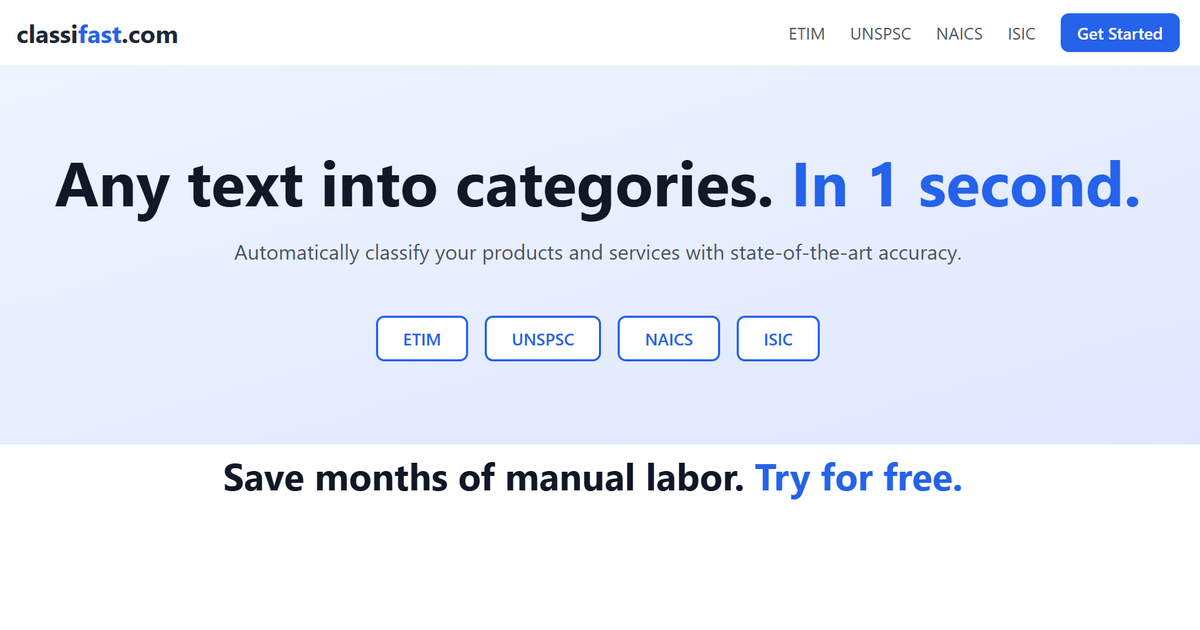
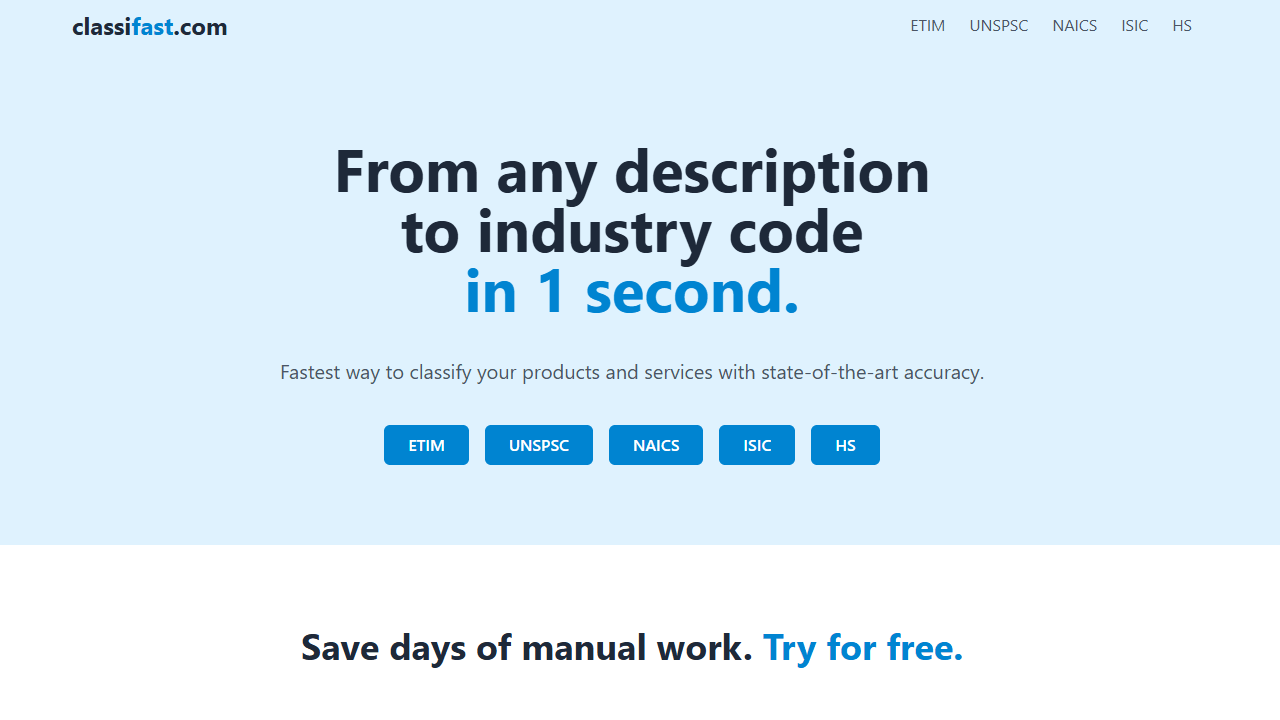
Add links to API, update preview images

diff --git a/app/static/css/styles.css b/app/static/css/styles.css
@@ -1,4 +1,4 @@
-/*! tailwindcss v4.1.11 | MIT License | https://tailwindcss.com */
+/*! tailwindcss v4.1.12 | MIT License | https://tailwindcss.com */
 @layer properties;
 @layer theme, base, components, utilities;
 @layer theme {
@@ -202,6 +202,9 @@
   ::-webkit-datetime-edit, ::-webkit-datetime-edit-year-field, ::-webkit-datetime-edit-month-field, ::-webkit-datetime-edit-day-field, ::-webkit-datetime-edit-hour-field, ::-webkit-datetime-edit-minute-field, ::-webkit-datetime-edit-second-field, ::-webkit-datetime-edit-millisecond-field, ::-webkit-datetime-edit-meridiem-field {
     padding-block: 0;
   }
+  ::-webkit-calendar-picker-indicator {
+    line-height: 1;
+  }
   :-moz-ui-invalid {
     box-shadow: none;
   }
@@ -252,14 +255,23 @@
   .mx-auto {
     margin-inline: auto;
   }
+  .mt-1 {
+    margin-top: calc(var(--spacing) * 1);
+  }
   .mt-2 {
     margin-top: calc(var(--spacing) * 2);
   }
   .mt-4 {
     margin-top: calc(var(--spacing) * 4);
   }
+  .mt-6 {
+    margin-top: calc(var(--spacing) * 6);
+  }
   .mt-8 {
     margin-top: calc(var(--spacing) * 8);
+  }
+  .mt-12 {
+    margin-top: calc(var(--spacing) * 12);
   }
   .mr-6 {
     margin-right: calc(var(--spacing) * 6);
@@ -415,6 +427,9 @@
   .gap-4 {
     gap: calc(var(--spacing) * 4);
   }
+  .gap-6 {
+    gap: calc(var(--spacing) * 6);
+  }
   .gap-8 {
     gap: calc(var(--spacing) * 8);
   }
@@ -439,11 +454,25 @@
       margin-block-end: calc(calc(var(--spacing) * 3) * calc(1 - var(--tw-space-y-reverse)));
     }
   }
+  .space-y-4 {
+    :where(& > :not(:last-child)) {
+      --tw-space-y-reverse: 0;
+      margin-block-start: calc(calc(var(--spacing) * 4) * var(--tw-space-y-reverse));
+      margin-block-end: calc(calc(var(--spacing) * 4) * calc(1 - var(--tw-space-y-reverse)));
+    }
+  }
   .space-y-8 {
     :where(& > :not(:last-child)) {
       --tw-space-y-reverse: 0;
       margin-block-start: calc(calc(var(--spacing) * 8) * var(--tw-space-y-reverse));
       margin-block-end: calc(calc(var(--spacing) * 8) * calc(1 - var(--tw-space-y-reverse)));
+    }
+  }
+  .space-x-2 {
+    :where(& > :not(:last-child)) {
+      --tw-space-x-reverse: 0;
+      margin-inline-start: calc(calc(var(--spacing) * 2) * var(--tw-space-x-reverse));
+      margin-inline-end: calc(calc(var(--spacing) * 2) * calc(1 - var(--tw-space-x-reverse)));
     }
   }
   .space-x-4 {
@@ -459,6 +488,9 @@
       margin-inline-start: calc(calc(var(--spacing) * 6) * var(--tw-space-x-reverse));
       margin-inline-end: calc(calc(var(--spacing) * 6) * calc(1 - var(--tw-space-x-reverse)));
     }
+  }
+  .rounded {
+    border-radius: 0.25rem;
   }
   .rounded-full {
     border-radius: calc(infinity * 1px);
@@ -481,14 +513,35 @@
     border-top-style: var(--tw-border-style);
     border-top-width: 1px;
   }
+  .border-t-2 {
+    border-top-style: var(--tw-border-style);
+    border-top-width: 2px;
+  }
+  .border-b-2 {
+    border-bottom-style: var(--tw-border-style);
+    border-bottom-width: 2px;
+  }
+  .border-l-4 {
+    border-left-style: var(--tw-border-style);
+    border-left-width: 4px;
+  }
+  .border-amber-200 {
+    border-color: var(--color-amber-200);
+  }
   .border-gray-200 {
     border-color: var(--color-gray-200);
   }
   .border-gray-400 {
     border-color: var(--color-gray-400);
   }
+  .border-gray-700 {
+    border-color: var(--color-gray-700);
+  }
   .border-gray-800 {
     border-color: var(--color-gray-800);
+  }
+  .border-sky-500 {
+    border-color: var(--color-sky-500);
   }
   .border-sky-600 {
     border-color: var(--color-sky-600);
@@ -499,8 +552,14 @@
   .border-b-transparent {
     border-bottom-color: transparent;
   }
+  .bg-amber-50 {
+    background-color: var(--color-amber-50);
+  }
   .bg-gray-50 {
     background-color: var(--color-gray-50);
+  }
+  .bg-gray-100 {
+    background-color: var(--color-gray-100);
   }
   .bg-gray-200 {
     background-color: var(--color-gray-200);
@@ -541,6 +600,9 @@
   .p-3 {
     padding: calc(var(--spacing) * 3);
   }
+  .p-4 {
+    padding: calc(var(--spacing) * 4);
+  }
   .p-6 {
     padding: calc(var(--spacing) * 6);
   }
@@ -573,6 +635,9 @@
   }
   .pt-8 {
     padding-top: calc(var(--spacing) * 8);
+  }
+  .pl-3 {
+    padding-left: calc(var(--spacing) * 3);
   }
   .text-center {
     text-align: center;
@@ -610,6 +675,10 @@
     font-size: var(--text-lg);
     line-height: var(--tw-leading, var(--text-lg--line-height));
   }
+  .text-sm {
+    font-size: var(--text-sm);
+    line-height: var(--tw-leading, var(--text-sm--line-height));
+  }
   .text-xl {
     font-size: var(--text-xl);
     line-height: var(--tw-leading, var(--text-xl--line-height));
@@ -617,6 +686,10 @@
   .font-bold {
     --tw-font-weight: var(--font-weight-bold);
     font-weight: var(--font-weight-bold);
+  }
+  .font-medium {
+    --tw-font-weight: var(--font-weight-medium);
+    font-weight: var(--font-weight-medium);
   }
   .font-semibold {
     --tw-font-weight: var(--font-weight-semibold);
@@ -658,8 +731,14 @@
   .text-\[\#a9a9a9\] {
     color: #a9a9a9;
   }
+  .text-amber-800 {
+    color: var(--color-amber-800);
+  }
   .text-gray-400 {
     color: var(--color-gray-400);
+  }
+  .text-gray-500 {
+    color: var(--color-gray-500);
   }
   .text-gray-600 {
     color: var(--color-gray-600);
@@ -684,6 +763,9 @@
   }
   .text-sky-600 {
     color: var(--color-sky-600);
+  }
+  .text-sky-800 {
+    color: var(--color-sky-800);
   }
   .text-white {
     color: var(--color-white);

diff --git a/app/templates/classifier_page.html b/app/templates/classifier_page.html
@@ -67,7 +67,7 @@
     {% endif %}
     <meta property="og:url" content="https://classifast.com/{{ classifier_type }}">
     <meta property="og:site_name" content="classifast.com">
-    <meta property="og:image" content="{{ url_for('static', path='images/preview.png') }}">
+    <meta property="og:image" content="{{ url_for('static', path='images/preview_classifybox.png') }}">
     <meta property="og:image:width" content="1200">
     <meta property="og:image:height" content="630">
     <meta property="og:image:alt" content="{{ classifier_type.upper() }} Automatic Classification">
@@ -86,7 +86,7 @@
     <meta name="twitter:description"
         content="Find {{ classifier_type.upper() }} codes quickly. Precise and fast {{ classifier_type.upper() }} standard classification with semantic search.">
     {% endif %}
-    <meta name="twitter:image" content="{{ url_for('static', path='images/preview.png') }}">
+    <meta name="twitter:image" content="{{ url_for('static', path='images/preview_classifybox.png') }}">
     <meta name="twitter:creator" content="@DimonBitcoin">
 
     <!-- Google tag (gtag.js) -->
@@ -490,8 +490,6 @@
             <!-- Desktop Navigation -->
             <nav class="desktop-nav">
                 <ul class="flex space-x-6 items-center">
-                    <li><a href="{{ url_for('read_root') }}"
-                            class="text-gray-600 hover:text-sky-600 transition-colors">Home</a></li>
                     <li><a href="{{ url_for('show_classifier_page', classifier_type='etim') }}"
                             class="text-gray-600 hover:text-sky-600 transition-colors">ETIM</a></li>
                     <li><a href="{{ url_for('show_classifier_page', classifier_type='unspsc') }}"
@@ -502,6 +500,8 @@
                             class="text-gray-600 hover:text-sky-600 transition-colors">ISIC</a></li>
                     <li><a href="{{ url_for('show_classifier_page', classifier_type='hs') }}"
                             class="text-gray-600 hover:text-sky-600 transition-colors">HS</a></li>
+                    <li><a href="https://rapidapi.com/DmitryMatv/api/classifast" target="_blank" rel="noopener"
+                            class="text-gray-600 hover:text-sky-600 transition-colors font-bold">API</a></li>
                     <!-- <li><a href="#" class="text-gray-600 hover:text-sky-600 transition-colors">Login</a></li> -->
                     <!-- <li><a href="#"
                             class="bg-sky-600 text-white px-4 py-2 font-semibold rounded-md hover:bg-sky-700 transition-colors whitespace-nowrap">
@@ -520,9 +520,6 @@
         <!-- Mobile Navigation Menu -->
         <nav class="mobile-menu" id="mobile-menu">
             <ul class="flex flex-col">
-                <li><a href="{{ url_for('read_root') }}"
-                        class="text-gray-600 hover:text-sky-600 transition-colors">Home</a>
-                </li>
                 <li><a href="{{ url_for('show_classifier_page', classifier_type='etim') }}"
                         class="text-gray-600 hover:text-sky-600 transition-colors">ETIM</a>
                 </li>
@@ -537,6 +534,9 @@
                 </li>
                 <li><a href="{{ url_for('show_classifier_page', classifier_type='hs') }}"
                         class="text-gray-600 hover:text-sky-600 transition-colors">HS</a>
+                </li>
+                <li><a href="https://rapidapi.com/DmitryMatv/api/classifast" target="_blank" rel="noopener"
+                        class="text-gray-600 hover:text-sky-600 transition-colors font-bold">API</a>
                 </li>
                 <!-- <li><a href="#" class="text-gray-600 hover:text-sky-600 transition-colors">Login</a>
                 </li>
@@ -933,13 +933,13 @@
                     <ul class="space-y-2">
                         <li><a href="{{ url_for('read_root') }}"
                                 class="text-gray-400 hover:text-white transition-colors">Home</a></li>
+                        <li><a href="https://rapidapi.com/DmitryMatv/api/classifast" target="_blank" rel="noopener"
+                                class="text-gray-400 hover:text-white transition-colors">API on RapidAPI</a></li>
+                        <li><a href="https://github.com/DmitryMatv/classifast" target="_blank" rel="noopener"
+                                class="text-gray-400 hover:text-white transition-colors">Code on GitHub</a></li>
                         <li><a href="https://converter.classifast.com" target="_blank" rel="noopener"
                                 class="text-gray-400 hover:text-white transition-colors">
                                 BMEcat to ETIM xChange Converter</a></li>
-                        <li><a href="https://github.com/DmitryMatv/classifast" target="_blank" rel="noopener"
-                                class="text-gray-400 hover:text-white transition-colors">GitHub</a></li>
-                        <li><a href="https://github.com/DmitryMatv" target="_blank" rel="noopener"
-                                class="text-gray-400 hover:text-white transition-colors">About</a></li>
                     </ul>
                 </div>
             </div>

diff --git a/app/templates/index.html b/app/templates/index.html
@@ -290,6 +290,8 @@
                             class="text-gray-600 hover:text-sky-600 transition-colors">ISIC</a></li>
                     <li><a href="{{ url_for('show_classifier_page', classifier_type='hs') }}"
                             class="text-gray-600 hover:text-sky-600 transition-colors">HS</a></li>
+                    <li><a href="https://rapidapi.com/DmitryMatv/api/classifast" target="_blank" rel="noopener"
+                            class="text-gray-600 hover:text-sky-600 transition-colors font-bold">API</a></li>
                     <!-- <li><a href="#" class="text-gray-600 hover:text-sky-600 transition-colors">Login</a></li> -->
                     <!-- <li><a href="#"
                             class="bg-sky-600 text-white px-4 py-2 font-semibold rounded-md hover:bg-sky-700 transition-colors whitespace-nowrap">
@@ -323,6 +325,9 @@
                 <li><a href="{{ url_for('show_classifier_page', classifier_type='hs') }}"
                         class="text-gray-600 hover:text-sky-600 transition-colors">HS</a>
                 </li>
+                <li><a href="https://rapidapi.com/DmitryMatv/api/classifast" target="_blank" rel="noopener"
+                        class="text-gray-600 hover:text-sky-600 transition-colors font-bold">API</a>
+                </li>
                 <!-- <li><a href="#" class="text-gray-600 hover:text-sky-600 transition-colors">Login</a>
                 </li>
                 <li><a href="#"
@@ -345,7 +350,7 @@
                     <h1 class="text-5xl md:text-6xl font-bold text-gray-800">
                         From any description<br>to industry code
                     </h1>
-                    <p class="text-5xl md:text-6xl font-bold text-sky-600 mb-10">in 1 second.</p>
+                    <p class="text-5xl md:text-6xl font-bold text-sky-600 mb-10">in 1 second</p>
                     <p class="text-xl text-gray-600 mb-10 max-w-3xl mx-auto">
                         Fastest way to classify your products and services with state-of-the-art accuracy.
                     </p>
@@ -518,13 +523,13 @@
                     <ul class="space-y-2">
                         <li><a href="{{ url_for('read_root') }}"
                                 class="text-gray-400 hover:text-white transition-colors">Home</a></li>
+                        <li><a href="https://rapidapi.com/DmitryMatv/api/classifast" target="_blank" rel="noopener"
+                                class="text-gray-400 hover:text-white transition-colors">API on RapidAPI</a></li>
+                        <li><a href="https://github.com/DmitryMatv/classifast" target="_blank" rel="noopener"
+                                class="text-gray-400 hover:text-white transition-colors">Code on GitHub</a></li>
                         <li><a href="https://converter.classifast.com" target="_blank" rel="noopener"
                                 class="text-gray-400 hover:text-white transition-colors">
                                 BMEcat to ETIM xChange Converter</a></li>
-                        <li><a href="https://github.com/DmitryMatv/classifast" target="_blank" rel="noopener"
-                                class="text-gray-400 hover:text-white transition-colors">GitHub</a></li>
-                        <li><a href="https://github.com/DmitryMatv" target="_blank" rel="noopener"
-                                class="text-gray-400 hover:text-white transition-colors">About</a></li>
                     </ul>
                 </div>
             </div>
